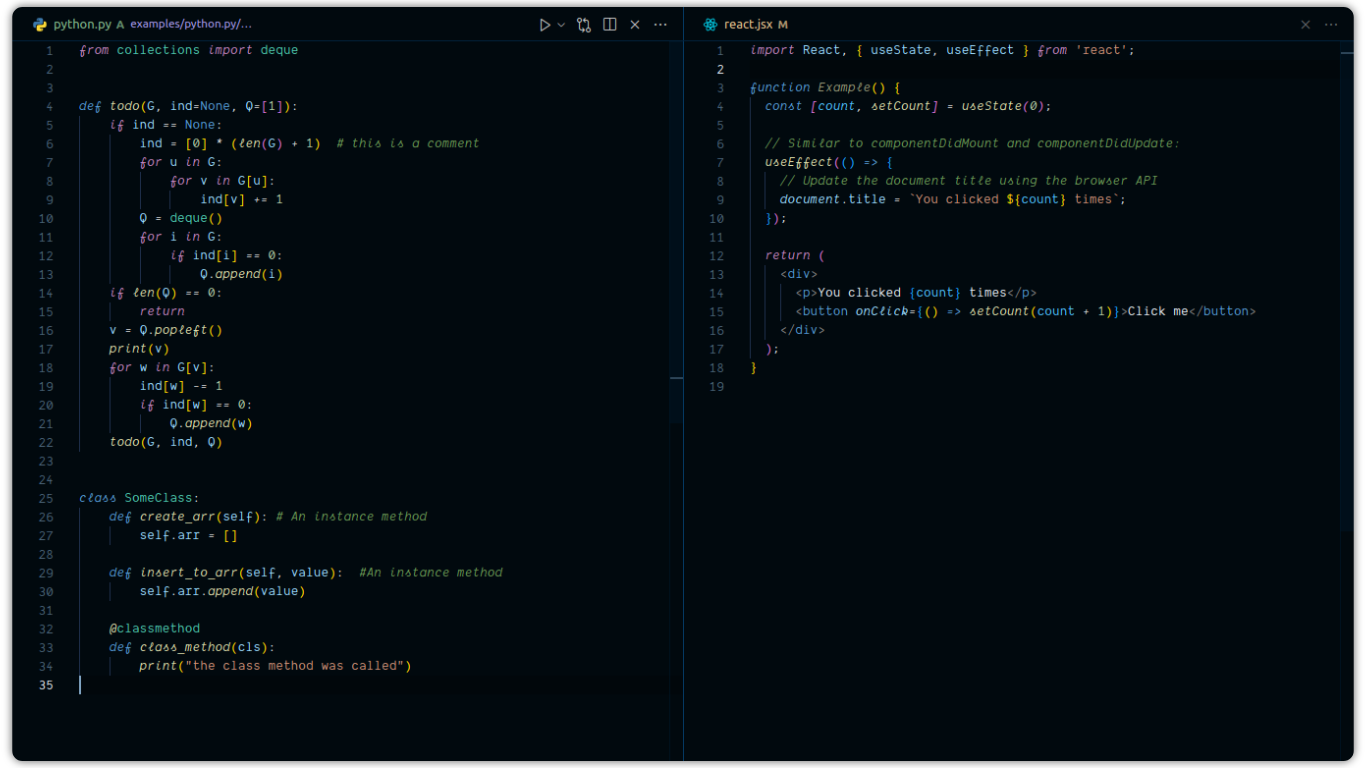
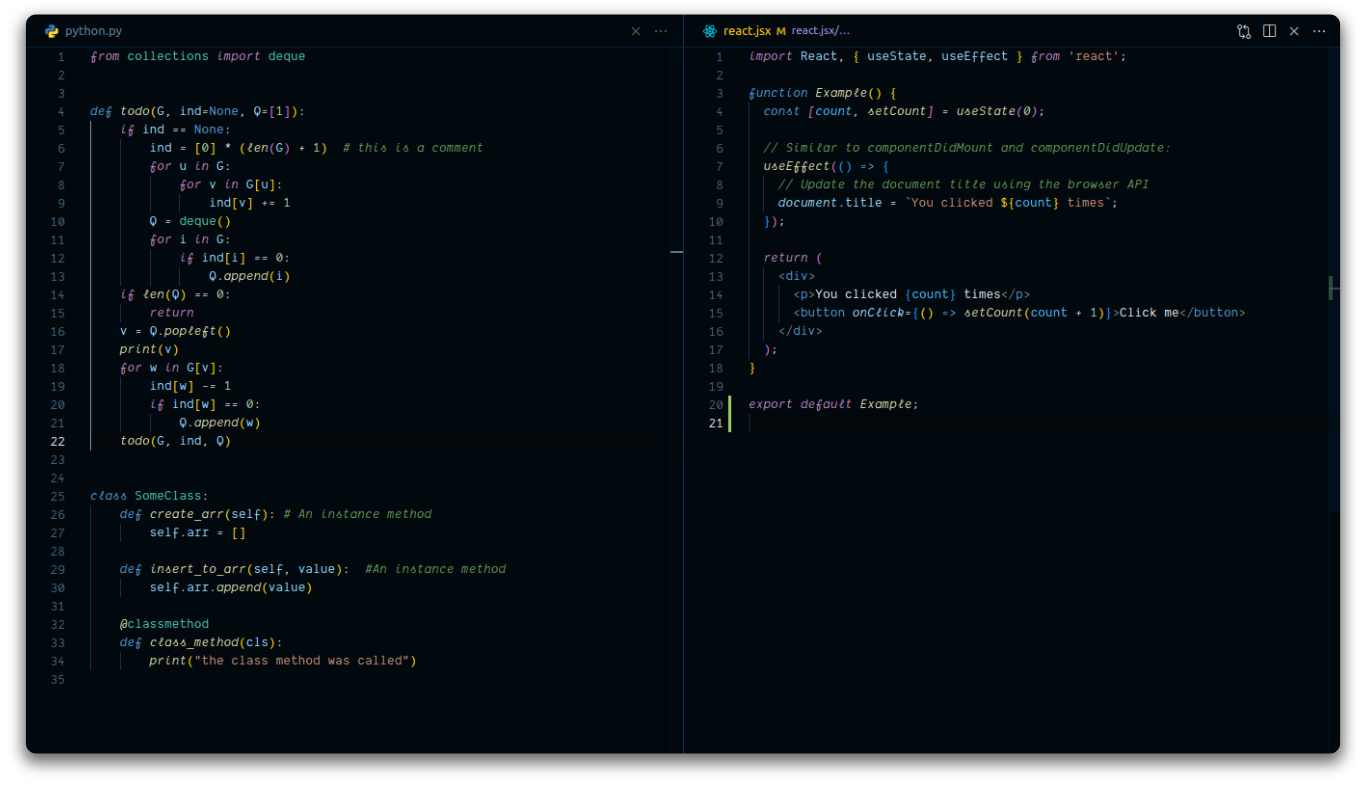
update screenshots

Changed region(s): [[0.0, 0.0, 1.0, 1.0], [0.3075, 0.1562, 0.3382, 0.2188], [0.246, 0.1562, 0.2767, 0.1875]]

diff --git a/examples/react.jsx b/examples/react.jsx
@@ -16,3 +16,5 @@ function Example() {
     </div>
   );
 }
+
+export default Example;
